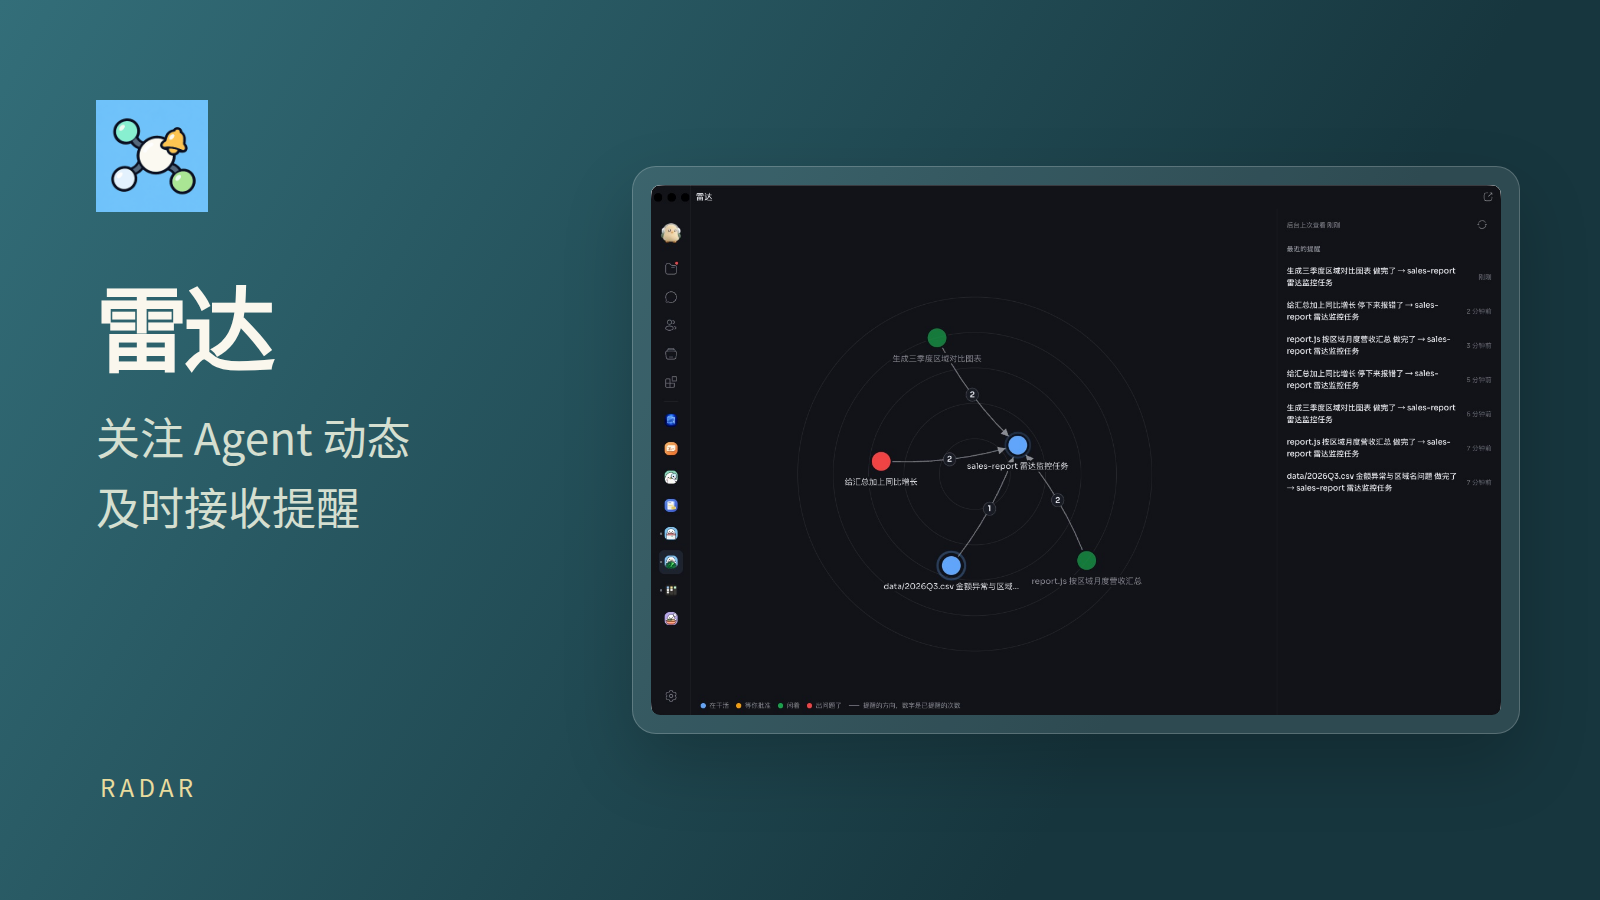
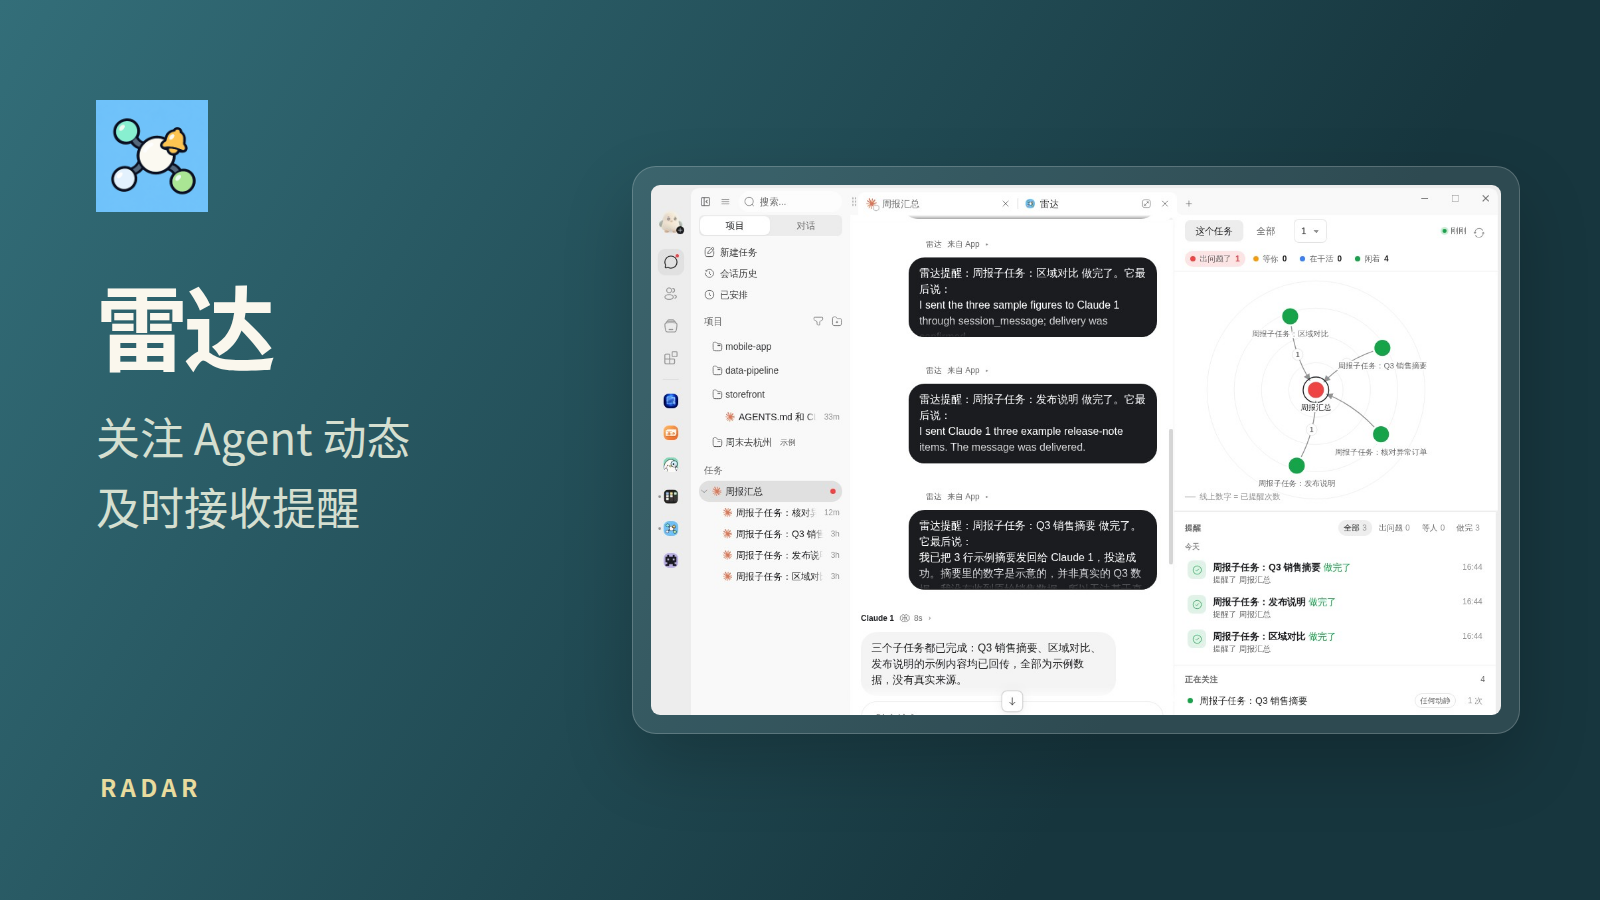
Radar 0.2.1 and Context 0.2.1: watch rows keep their width for names; market images retaken in the client (#205)

Changed region(s): [[0.4062, 0.1867, 0.9375, 0.8089], [0.0625, 0.3422, 0.1562, 0.4044], [0.0625, 0.8711, 0.125, 0.9022]]

diff --git a/sources/radar/radar.css b/sources/radar/radar.css
@@ -70,16 +70,16 @@ body {
 .note gugu-time, .note time { font-size: var(--em-font-caption); color: var(--em-foreground-passive); line-height: 20px; font-variant-numeric: tabular-nums; }
 
 /* one watch: whom, from when, how often it spoke; stopping shows on hover */
-.watch { display: grid; grid-template-columns: 8px minmax(0, 1fr) auto auto; gap: 10px; align-items: center; padding: 6px 8px; border-radius: var(--em-radius-control); min-height: 32px; }
+.watch { position: relative; display: grid; grid-template-columns: 8px minmax(0, 1fr) auto auto; gap: 10px; align-items: center; padding: 6px 8px; border-radius: var(--em-radius-control); min-height: 32px; }
 .watch:hover { background: var(--em-hover); }
 .watch .who { overflow: hidden; text-overflow: ellipsis; white-space: nowrap; }
 .watch .who small { color: var(--em-foreground-passive); margin-left: 6px; }
 .level { font-size: 11.5px; line-height: 20px; padding: 0 7px; border-radius: var(--em-radius-capsule); border: 1px solid var(--em-border-1); color: var(--em-foreground-muted); white-space: nowrap; }
 .watch .sent { font-size: var(--em-font-caption); color: var(--em-foreground-passive); min-width: 30px; text-align: right; font-variant-numeric: tabular-nums; }
-.watch .stop { grid-column: 4; grid-row: 1; opacity: 0; pointer-events: none; height: 24px; font-size: var(--em-font-caption); padding: 0 8px; }
+.watch .stop { position: absolute; right: 8px; top: 50%; transform: translateY(-50%); opacity: 0; pointer-events: none; height: 24px; font-size: var(--em-font-caption); padding: 0 8px; }
 .watch:hover .stop, .watch:focus-within .stop { opacity: 1; pointer-events: auto; }
 .watch .sent { grid-column: 4; grid-row: 1; }
-.watch:hover .sent, .watch:focus-within .sent { visibility: hidden; }
+.watch:hover .sent, .watch:focus-within .sent, .watch:hover .level, .watch:focus-within .level { visibility: hidden; }
 
 /* a picked agent or path: a property sheet, Linear-style */
 #detail { background: var(--em-background-1); }

diff --git a/scripts/promo/README.md b/scripts/promo/README.md
@@ -8,11 +8,11 @@ To add an App, copy a template and replace the icon, name, benefit, screenshot p
 
 ## Screenshot sources
 
-All product images below already existed in the corresponding App before this artwork change, except Context, whose screenshots were taken for its 0.1.1 listing from a real project report with paths and machine names replaced, Paper Club, whose screenshots were retaken for 0.3.9 to show the reworked reader, and Calendar, whose screenshots were retaken in the client for 0.5.5 to show the time axis (see each App's `screenshots/SOURCE.md`). Only their placement inside the promotional frame is new.
+All product images below already existed in the corresponding App before this artwork change, except Radar and Context, whose screenshots were retaken in the client for 0.2.1 in an example account to show the 0.2 interface, Paper Club, whose screenshots were retaken for 0.3.9 to show the reworked reader, and Calendar, whose screenshots were retaken in the client for 0.5.5 to show the time axis (see each App's `screenshots/SOURCE.md`). Only their placement inside the promotional frame is new.
 
 | Template | Product screenshot, relative to package root | SHA-256 |
 | --- | --- | --- |
[5 lines of base64/hex data omitted]
@@ -21,5 +21,5 @@ All product images below already existed in the corresponding App before this ar
[6 lines of base64/hex data omitted]

diff --git a/sources/context/app/README.md b/sources/context/app/README.md
@@ -2,9 +2,9 @@
 
 # 上下文 / Context
 
-![主图：按 7 天热度排列项目，每张卡显示热度、健康、容量三条格子能力条](screenshots/1.jpg)
-![项目详情：各机器各 harness 开工时拿到的规矩和容量，下方是扣了健康的诊断](screenshots/2.jpg)
-![深色主题下的诊断列表：每条写明扣分、口径和证据，可预览改动或复制给 agent](screenshots/3.jpg)
+![主图：上方是要处理的项目、最满的记忆索引、7 天任务和可清理项，下面每个项目一行，带热度、健康、容量](screenshots/1.jpg)
+![深色主题的项目详情：三块指标，下面是扣了健康的诊断，可预览改动](screenshots/2.jpg)
+![诊断列表：每条写明扣分、口径和证据；可以清理的不扣健康；最后是各电脑开工时拿到的规矩](screenshots/3.jpg)
 
 按项目查看 Claude 和 Codex 的任务热度、上下文健康和加载容量。项目使用紧凑的五列列表，保留像素头像与十格条；总览显示待处理项目、最高容量、任务数和可清理项，浅色和深色随咕咕主题变化。
 

diff --git a/sources/radar/README.md b/sources/radar/README.md
@@ -2,9 +2,9 @@
 
 # 雷达
 
-![关注关系图：连线上的数字为提醒次数，红色节点为出错的任务](screenshots/1.jpg)
-![接收提醒的任务中显示雷达提醒，右侧为以该任务为中心的局部图](screenshots/2.jpg)
-![悬停在连线上，查看提醒路径与次数的完整说明](screenshots/3.jpg)
+![任务旁的雷达：上面是以这个任务为中心的关注图，下面是按天分组的提醒和正在关注的列表](screenshots/1.jpg)
+![深色主题：点开一个任务，看它的状态和关注关系；顶栏是各状态的计数和后台心跳](screenshots/2.jpg)
+![全宽页签：出问题的任务标红，连线上的数字是已提醒的次数](screenshots/3.jpg)
 
 让 agent 关注别的 agent。被关注的那个出了事，雷达给收提醒的人发一条消息。关注分三档，每一档都包含前一档：
 

diff --git a/sources/context/app/screenshots/SOURCE.md b/sources/context/app/screenshots/SOURCE.md
@@ -1,0 +1,9 @@
+# Screenshot sources
+
+Taken in the gugu desktop client (Linux, light and dark theme) on 2026-10-31 with Context 0.2.1 installed, in an example account: the projects, tasks and reminders are real records created for the screenshots; the machine is named 工作站 and the user 小林. Window 1280 × 900, saved as JPEG quality 90.
+
+| File | What it shows |
+| --- | --- |
+| `1.jpg` | Project list with overview tiles (light) |
+| `2.jpg` | Project detail (dark) |
+| `3.jpg` | Diagnostics and machines of the same project (light) |

diff --git a/sources/radar/screenshots/SOURCE.md b/sources/radar/screenshots/SOURCE.md
@@ -1,0 +1,9 @@
+# Screenshot sources
+
+Taken in the gugu desktop client (Linux, light and dark theme) on 2026-10-31 with Radar 0.2.1 installed, in an example account: the projects, tasks and reminders are real records created for the screenshots; the machine is named 工作站 and the user 小林. Window 1280 × 900, saved as JPEG quality 90.
+
+| File | What it shows |
+| --- | --- |
+| `1.jpg` | A task with Radar opened beside it (light) |
+| `2.jpg` | Full-width tab with one task selected (dark) |
+| `3.jpg` | Full-width tab (dark) |

diff --git a/sources/radar/CHANGELOG.md b/sources/radar/CHANGELOG.md
@@ -1,3 +1,8 @@
+## 0.2.1
+
+- 关注列表的「不再关注」悬停时盖在档位上，不再常驻占宽，任务名能多显示一截。
+- 市场截图换成 0.2 界面的客户端实拍。
+
 ## 0.2.0
 
 - 提醒按天分组并支持筛选，集中显示关注列表、状态计数与后台心跳。

diff --git a/sources/context/app/CHANGELOG.md b/sources/context/app/CHANGELOG.md
@@ -1,3 +1,7 @@
+## 0.2.1
+
+- 市场截图换成 0.2 界面的客户端实拍。
+
 ## 0.2.0
 
 - 项目改为紧凑列表与总览，保留像素头像和十格条，统一详情与诊断样式。
